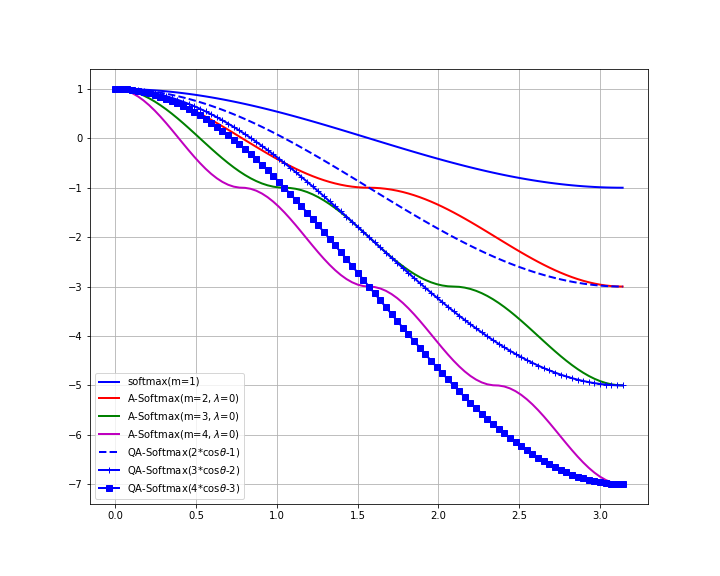
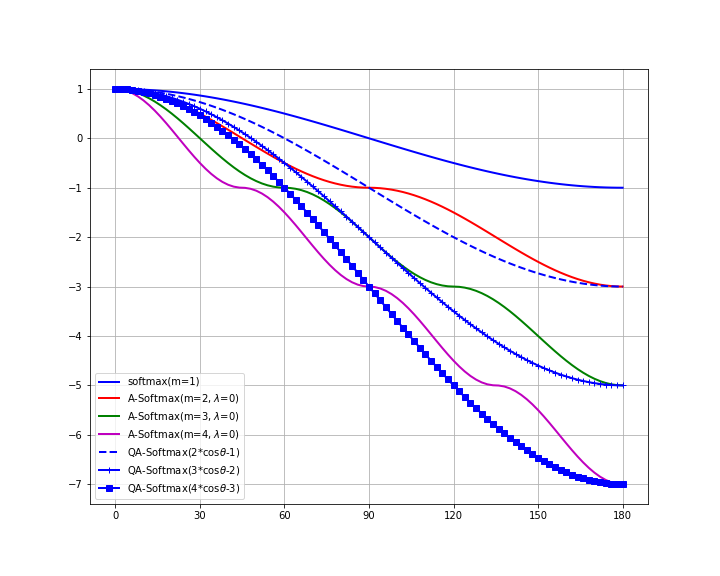
change plot xticks

diff --git a/tools/plot_A_softmax_function.py b/tools/plot_A_softmax_function.py
@@ -19,7 +19,9 @@ if psutil.LINUX:
 import matplotlib.pyplot as plt
 
 
-theta = np.linspace(0, 180, 91, endpoint=True) * np.pi / 180.0
+theta_degree = np.linspace(0, 180, 91, endpoint=True)
+
+theta = theta_degree * np.pi / 180.0
 cos_theta = np.cos(theta)
 
 zero_array = np.zeros_like(theta)
@@ -30,7 +32,7 @@ figsize = (10, 8)
 fig = plt.figure(figsize=figsize)
 
 legend_str = 'softmax(m=1)'
-line, = plt.plot(theta, cos_theta,
+line, = plt.plot(theta_degree, cos_theta,
                  '-b', LineWidth=2, label=legend_str)
 print line
 ax_hanlders = [line]
@@ -57,7 +59,7 @@ for m in [2, 3, 4]:
 
     legend_str = 'A-Softmax(m=%d, $\\lambda$=0)' % (m)
 
-    line, = plt.plot(theta, Fai[m - 1, :],
+    line, = plt.plot(theta_degree, Fai[m - 1, :],
                      line_styles_0[style_cnt], LineWidth=2, label=legend_str)
     ax_hanlders.append(line)
     legend_strings.append(legend_str)
@@ -109,7 +111,7 @@ for alpha in [2, 3, 4]:
 
     legend_str = 'QA-Softmax(%d*cos$\\theta$-%d)' % (alpha, alpha - 1)
 
-    line, = plt.plot(theta,  alpha * cos_theta - alpha + 1,
+    line, = plt.plot(theta_degree,  alpha * cos_theta - alpha + 1,
                     line_styles_2[style_cnt],
                     LineWidth=2, label=legend_str)
 
@@ -120,6 +122,7 @@ for alpha in [2, 3, 4]:
 
 plt.legend(tuple(ax_hanlders), tuple(legend_strings), loc='lower left')
 # plt.legend(tuple(ax_hanlders), loc='lower left')
+plt.xticks(np.arange(0, 181, 30))
 plt.grid(True)
 
 plt.savefig('QA-Softmax_vs_A-Softmax.png')
